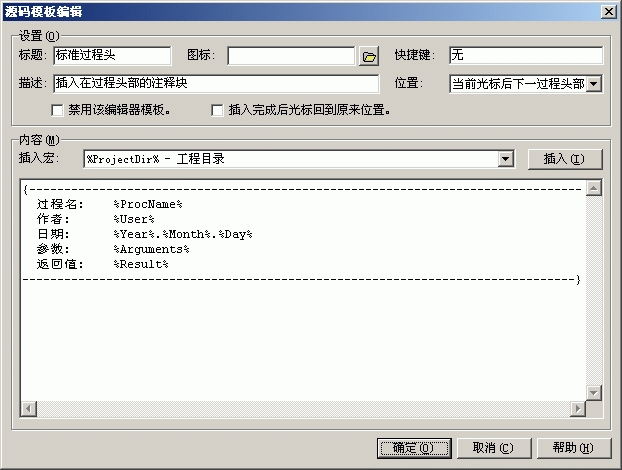
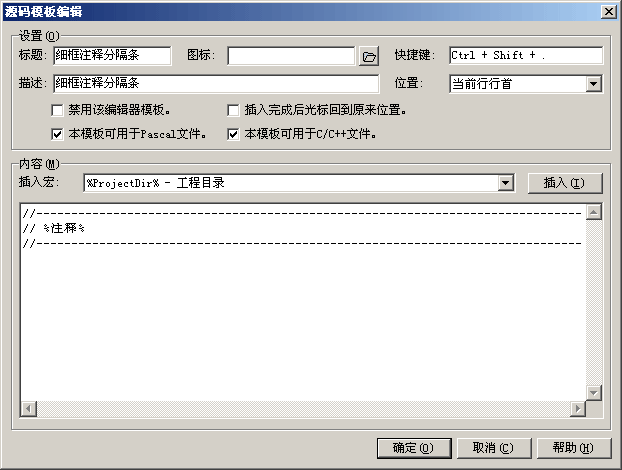
* [源码模板/Source Template] 更新帮助内容/Update Help。

diff --git a/cnwizards/Help/CnWizards_ENU/wizards/srctemplates.htm b/cnwizards/Help/CnWizards_ENU/wizards/srctemplates.htm
@@ -97,6 +97,14 @@ Template Options</p>
 unit header or other positions, whether restore cursor position after insert. 
 This switch will override the position defined by %Cursor% macro.</p>
   </li>
+  <li>
+<p class="text" align="left">
+<b>For Pascal File</b>: This template is for Pascal file and can be shown in Delphi.</p>
+  </li>
+  <li>
+<p class="text" align="left">
+<b>For C/C++ File</b>: This template is for C/C++ file and can be shown in C++Builder.</p>
+  </li>
 </ul>
 <p class="text" align="left">
 　</p>
